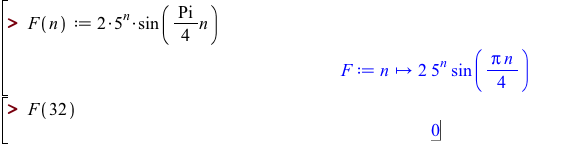
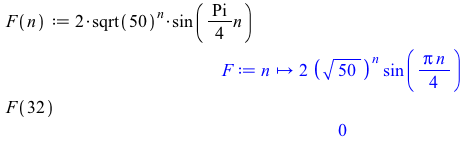
komplettering

Changed region(s): [[0.0, 0.0, 0.5362, 1.0], [0.4766, 0.338, 0.983, 0.6479], [0.7149, 0.8451, 0.7745, 0.9859]]

diff --git a/inlmn_komp.tex b/inlmn_komp.tex
@@ -94,13 +94,36 @@ Vilket stämmer överens med det tidigare resultatet.
 \section*{1.3}
 \subsection*{c)}
 
+% 2 fall
+%	z  + iArg(e^z) = z
+%		 iArg(e^z) = 0
+%		 -> z ligger på +pos reella axeln.
+%	-z + iArg(e^(-z)) = z
+%		 iArg(e^-z) = 2z
+%
+
 På liknande vis som i förra deluppgiften används definitionen av den komplexa logaritmen för att utveckla uttrycket
 
+\begin{align}
+	\text{Log}(e^z) = \ln|e^z| + i\text{Arg}(e^z).\label{eq:13c}
+\end{align}
+
+Om $z = x + iy$, kan (\ref{eq:13c}) skrivas som
+
+\begin{align}
+	\ln|e^{x+iy}| + i\text{Arg}(e^{x+iy}) &= \ln(|e^x||e^{iy}|) + i\text{Arg}(e^{x+iy})\\
+										  &= \ln(e^x\cdot1) + i\text{Arg}(e^xe^{iy})\\
+			   &= x + i\text{Arg}(e^xe^{iy}).\label{eq:13c2}
+\end{align}
+
+Enligt grundantagandet att $\text{Log}(e^z) = z$ så måste det gälla att
+
 \begin{align*}
-	\text{Log}(e^z) = \ln|e^z| + i\text{Arg}(e^z)  = \ln(e^{|z|}) + i\text{Arg}(e^z) = |z| + i\text{Arg}(e^z) = 0.
+	(\ref{eq:13c2}) &\iff x + i\text{Arg}(e^xe^{iy}) = x + iy\\
+					&\iff y = \text{Arg}(e^xe^{iy}) \implies y = \text{Arg}(e^{iy}).
 \end{align*}
 
-Den sista likheten gäller enligt uppgiften som gavs. Då måste $i\text{Arg}(z) = 0$ och $z$ måste ligga på den positiva reella axeln.
+Definitionen av principalgrenen av argumentet ger då att $-\pi < y < \pi$, vilket kan sammanfattas som $-\pi < \text{Im}(z) < \pi$.
 
 \section*{1.4}
 \subsection*{b)}
@@ -220,8 +243,10 @@ Värdet på $x_{32}$ beräknas i Maple samt Matlab.
 Beräknas $x_{32}$ istället för hand fås
 
 \begin{equation*}
-	x_{32} = 2\cdot5^{32}\sin\left(\frac{\pi}{4}n\right) = 2\cdot5^{32}\cdot 0 = 0.
+	x_{32} = 2\cdot\sqrt{50}^{32}\sin\left(\frac{\pi}{4}n\right) = 2\cdot\sqrt{50}^{32}\cdot 0 = 0.
 \end{equation*}
+
+% Matlab approximerar pi med en ändlig serie! sin(2pi) blir då ungefär 0
 
 Anledningen till varför resultatet skiljer så mycket för Matlab beror troligtvis på att programmet använder numeriska metoder för att approximera $\sin(x)$. I Figur \ref{fig:matlab} blir $\sin(8\pi)$ troligtvis mycket nära $0$, nog nära för att det inte skall spela roll i de flesta sammanhang, men i beräkningen av $x_{32}$ multiplicerar vi ett mycket stort tal $5^{32}$ med något som är nära noll och resultatet blir då $-4.6\cdot10^7$. Det här problemet grundar sig i att datorer idag och Matlab i synnerhet använder sig av 64 bitar för att representera ett decimaltal. Det betyder att det finns en fix precision för heltalsdelen och decimaldelen av ett tal och detta leder till fel vid multiplikation av tal som skiljer sig många storleksordningar. Dock verkar Maple använda sig av mer analytiska metoder för att beräkna $\sin(x)$ och leder därför inte av samma problem.
 
